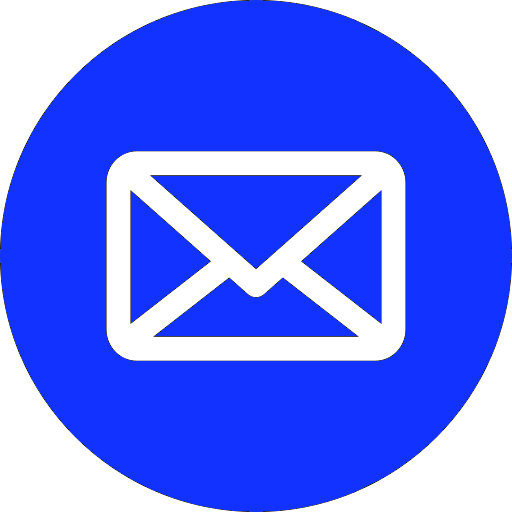
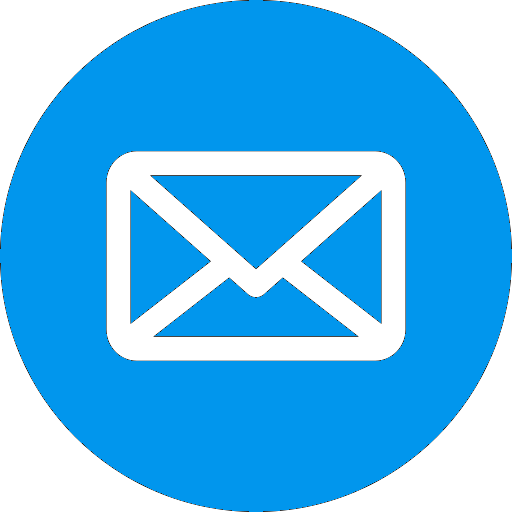
Styling Changes

diff --git a/src/components/pages/Portfolio.js b/src/components/pages/Portfolio.js
@@ -1,120 +1,22 @@
 import React from "react";
 import Project from "./Project";
-import proScreenshot from "../../assets/images/proScreenshot.png";
-import techBlogScreenshot from "../../assets/images/techBlogScreenshot.png";
-import pawfectMatchScreenshot from "../../assets/images/pawfectMatchScreenshot.png";
-import recipeFindrScreenshot from "../../assets/images/recipeFindrScreenshot.png";
-import socialMediaAPIScreenshot from "../../assets/images/socialMediaAPIScreenshot.png";
-import textEditorScreenshot from "../../assets/images/textEditorScreenshot.png";
-import weatherDashboardScreenshot from "../../assets/images/weatherDashboardScreenshot.png";
-import portfolioScreenshot from "../../assets/images/portfolioScreenshot.png";
+import yumilicous from "../../assets/images/yumilicious.jpeg";
 
 const projects = [
   {
     id: 0,
-    name: "Pro",
-    type: "Individual project",
-    technologies: "Mongoose, Express, React, Node, REST",
+    name: "Yumilicous",
+    type: "Group project",
+    technologies: "HTML CSS Javascript",
     descriptionSummary:
-      "Full stack application that predicts when a software project will be complete.",
+      "Our project will be showcasing an application that informs the user of different recipes based on their query.",
     descriptionElaboration:
-      "After entering information about the people in your team and what they'll be working on, Pro produces an estimation of when each person is expected to finish their part of the project, allowing the user to plan projects more accurately.",
-    repoURL: "https://github.com/hayleyarodgers/project-management-tool",
+      "An application that informs the user of different recipes based on their query",
+    repoURL: "https://github.com/ccames91/MealWorms",
     demoURL: "https://ccames91.github.io/MealWorms",
-    screenshot: proScreenshot,
+    screenshot: yumilicous,
   },
-  {
-    id: 1,
-    name: "Tech blog",
-    type: "Individual project",
-    technologies: "Node.js, Express.js, Sequelize, Handlebars",
-    descriptionSummary:
-      "Full stack application where developers can publish and comment on blog posts.",
-    descriptionElaboration:
-      "Users can post, update and delete their thoughts on development-related topics. This aims to help promote the sharing of information between people.",
-    repoURL: "https://github.com/hayleyarodgers/tech-blog",
-    demoURL: "https://hayleyarodgers-tech-blog.herokuapp.com/",
-    screenshot: techBlogScreenshot,
-  },
-  {
-    id: 2,
-    name: "Pawfect Match",
-    type: "Group project: team lead, front end designer",
-    technologies: "Node.js, Express.js, Sequelize, Handlebars",
-    descriptionSummary:
-      "Full stack application that matches pets needing adoption with new owners.",
-    descriptionElaboration:
-      "Users can post their pet for adoption or respond to posts for adoption. This aims to help give adoptive pets a second chance and help people access the benefits of having a pet.",
-    repoURL: "https://github.com/hayleyarodgers/pawfect-match",
-    demoURL: "https://pawfect---match.herokuapp.com/",
-    screenshot: pawfectMatchScreenshot,
-  },
-  {
-    id: 3,
-    name: "Recipe Findr",
-    type: "Group project: team lead, functions related to data persistence",
-    technologies: "Fetch API, Youtube API, Spoonacular API",
-    descriptionSummary:
-      "Front end application that gives users video tutorials for recipes using ingredients they have at hand.",
-    descriptionElaboration:
-      "Users can enter up to three ingredients of their choice, before selecting a recipe and being given a corresponding video tutorial. This aims to help empower the user to try new meals, in addition to reducing time spent shopping and food wastage.",
-    repoURL: "https://github.com/hayleyarodgers/recipe-finder",
-    demoURL: "https://hayleyarodgers.github.io/recipe-finder/",
-    screenshot: recipeFindrScreenshot,
-  },
-  {
-    id: 4,
-    name: "Social Network API",
-    type: "Individual project",
-    technologies: "Node.js, Express.js, MongoDB, Mongoose",
-    descriptionSummary:
-      "Back end for a social network web application for sharing thoughts with friends.",
-    descriptionElaboration:
-      "Users can share their thoughts, react to friends’ thoughts and create a friend list. This API would be particularly useful for a social media startup wanting a NoSQL database so their website can handle large amounts of unstructured data.",
-    repoURL: "https://github.com/hayleyarodgers/social-network-api",
-    demoURL:
-      "https://drive.google.com/file/d/1ukaohNaUZ7Fchgvq31qvmOVNolPErSYx/view?usp=sharing",
-    screenshot: socialMediaAPIScreenshot,
-  },
-  {
-    id: 5,
-    name: "Text Editor",
-    type: "Individual project",
-    technologies: "Webpack, Workbox, PWAs, IndexedDB",
-    descriptionSummary:
-      "Progressive web application for taking notes or code snippets.",
-    descriptionElaboration:
-      "The use of code bundling, caching, a service worker and an IndexedDB database mean that notes can be taken with or without an internet connection. This means the user can reliably retrieve their notes for later use.",
-    repoURL: "https://github.com/hayleyarodgers/pwa-text-editor",
-    demoURL: "https://hayleyarodgers-pwa-text-editor.herokuapp.com/",
-    screenshot: textEditorScreenshot,
-  },
-  {
-    id: 6,
-    name: "Weather Dashboard",
-    type: "Individual project",
-    technologies: "Javascript, Moment.js, OpenWeather API",
-    descriptionSummary:
-      "Front end application that shows the current and predicted weather for a selected city.",
-    descriptionElaboration:
-      "There is a search function that allows the user to select a city, which is then added to the search history. The user is then able to look through their search history and click between the weather for multiple cities. This may be particularly useful when travelling.",
-    repoURL: "https://github.com/hayleyarodgers/weather-dashboard",
-    demoURL: "https://hayleyarodgers.github.io/weather-dashboard/",
-    screenshot: weatherDashboardScreenshot,
-  },
-  {
-    id: 7,
-    name: "Portfolio",
-    type: "Individual project",
-    technologies: "Javascript, React, React-Bootstrap",
-    descriptionSummary:
-      "Front end application that showcases my skills, experience and examples of my work.",
-    descriptionElaboration:
-      "This is the code for my current professional portfolio (that is, the site you're seeing now!). This was my first application built using React and it aims to help potential collaborators and employers determine whether I might be a good fit for working with them. ",
-    repoURL: "https://github.com/hayleyarodgers/portfolio",
-    demoURL: "https://hayleyarodgers.github.io/portfolio/",
-    screenshot: portfolioScreenshot,
-  },
+  
 ];
 
 export default function Portfolio() {
@@ -125,7 +27,7 @@ export default function Portfolio() {
         I've built <i>stacks</i> of applications, including full stack, back
         end, front end and command line. You can find them all on{" "}
         <a
-          href="https://github.com/hayleyarodgers?tab=repositories"
+          href="https://github.com/chandraucb?tab=repositories"
           target="_blank"
           rel="noopener noreferrer">
           my Github

diff --git a/src/components/Navigation.js b/src/components/Navigation.js
@@ -11,7 +11,7 @@ export default function Navigation({ currentPage, handlePageChange }) {
           // Use ternary operator to check if the current page is "About".
           // If it is, use Bootstrap's active link class.
           className={currentPage === "About" ? "nav-link active" : "nav-link"}>
-          ABOUT
+          About
         </a>
       </li>
       <li className="nav-item">
@@ -23,7 +23,7 @@ export default function Navigation({ currentPage, handlePageChange }) {
           className={
             currentPage === "Portfolio" ? "nav-link active" : "nav-link"
           }>
-          PORTFOLIO
+          Portfolio
         </a>
       </li>
       <li className="nav-item">
@@ -33,7 +33,7 @@ export default function Navigation({ currentPage, handlePageChange }) {
           // Use ternary operator to check if the current page is "Resume".
           // If it is, use Bootstrap's active link class.
           className={currentPage === "Resume" ? "nav-link active" : "nav-link"}>
-          RESUME
+          Resume
         </a>
       </li>
       <li className="nav-item">
@@ -45,7 +45,7 @@ export default function Navigation({ currentPage, handlePageChange }) {
           className={
             currentPage === "Contact" ? "nav-link active" : "nav-link"
           }>
-          CONTACT
+          Contact
         </a>
       </li>
     </ul>

diff --git a/src/styles/index.css b/src/styles/index.css
@@ -1,13 +1,14 @@
 /* Custom global styling */
 @import url('https://fonts.googleapis.com/css2?family=Inconsolata:wght@300&family=Karla:wght@500&family=Spectral:ital,wght@0,300;0,400;0,700;1,300&display=swap');
+@import url('https://fonts.googleapis.com/css2?family=Poppins:ital,wght@0,400;0,500;0,600;1,200;1,300&display=swap');
 
 :root {
   font-size: 62.5%;
-  --font-main: 'Spectral', serif;
+  --font-main: 'Poppins', serif;
   --font-code: 'Inconsolata', monospace;
-  --blue: #1233ff;
+  --blue: rgb(1, 150, 237);
   --orange: #ff6d00;
-  --grey: rgb(85, 85, 85);
+  --grey: dark-blue;
 }
 
 /* Custom font styling */
@@ -19,6 +20,12 @@ body {
   font-size: 1.8rem;
   line-height: 1.7;
   padding: 5% 10%;
+  background: url(./../assets/images/background.png) no-repeat center center fixed;
+  -webkit-background-size: cover;
+  -moz-background-size: cover;
+  -o-background-size: cover;
+  background-size: cover;
+
 }
 
 main {

diff --git a/src/styles/contact.css b/src/styles/contact.css
@@ -14,7 +14,7 @@
 .form-box label{
   display: block;
   text-align: left;
-  color:  #1233ff;
+  color:  rgb(1, 150, 237);
 }
 
 .form-box input {
@@ -24,7 +24,7 @@
   margin: .9vw 0 ;
   border:0.5;
   border-radius: 5px;
-  border-color:  #1233ff;
+  border-color:  rgb(1, 150, 237);
   font-size: 20px;
 }
 
@@ -35,14 +35,14 @@
   margin: 1vw 0 ;
   border:0.5;
   border-radius: 5px;
-  border-color:  #1233ff;
+  border-color: rgb(1, 150, 237);
   font-size: 20px;
   height: 12vh;
 }
 
 .button{
   color:  whitesmoke;
-  background-color:#1233ff;
+  background-color:rgb(1, 150, 237);
 }
 
 

diff --git a/src/components/Footer.js b/src/components/Footer.js
@@ -6,8 +6,6 @@ import linkedinLogo from "../assets/images/linkedinLogo.png";
 import linkedinLogoOrange from "../assets/images/linkedinLogoOrange.png";
 import githubLogo from "../assets/images/githubLogo.png";
 import githubLogoOrange from "../assets/images/githubLogoOrange.png";
-import phoneIcon from "../assets/images/phoneIcon.png";
-import phoneIconOrange from "../assets/images/phoneIconOrange.png";
 import emailIcon from "../assets/images/emailIcon.png";
 import emailIconOrange from "../assets/images/emailIconOrange.png";
 import resumeIcon from "../assets/images/resumeIcon.png";

diff --git a/src/components/Header.js b/src/components/Header.js
@@ -29,14 +29,11 @@ export default function Header() {
     <div>
       <header>
         <h1>Chandrasekar Mohan</h1>
-        <i>Full stack developer</i>
-        <hr className="mx-auto" />
         {/* Pass currentPage and the function to update it to Navigation. */}
         <Navigation
           currentPage={currentPage}
           handlePageChange={handlePageChange}
         />
-        <hr className="mx-auto" />
         <br />
       </header>
       {/* Return a component. */}
